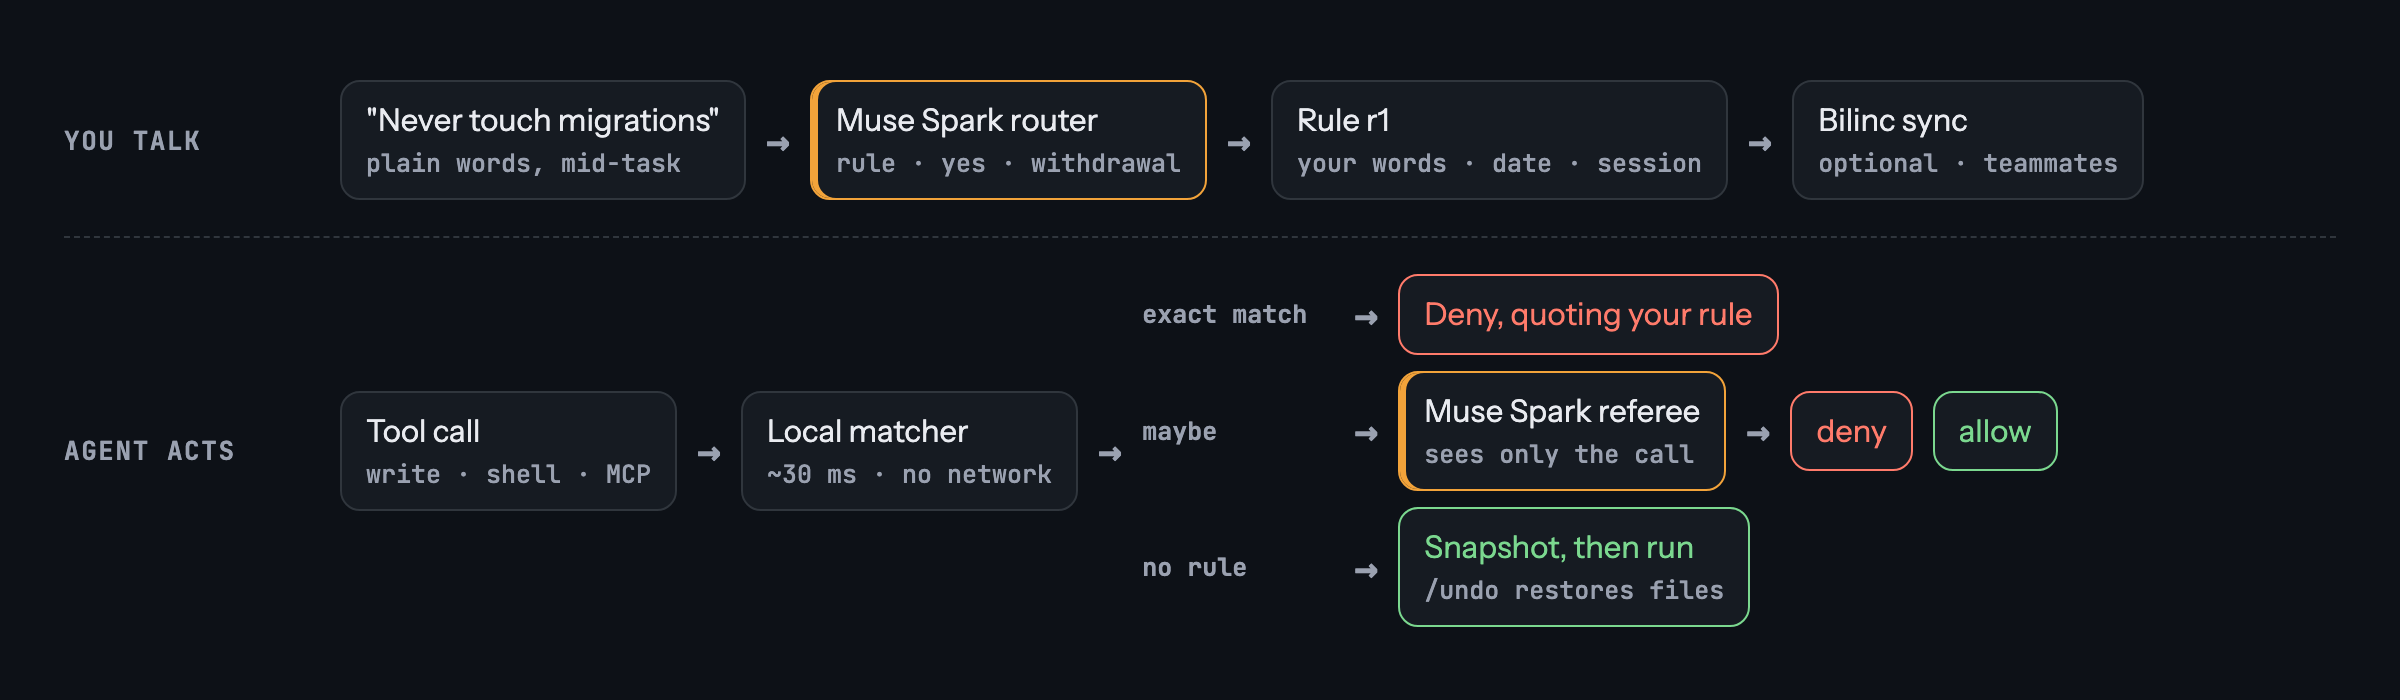
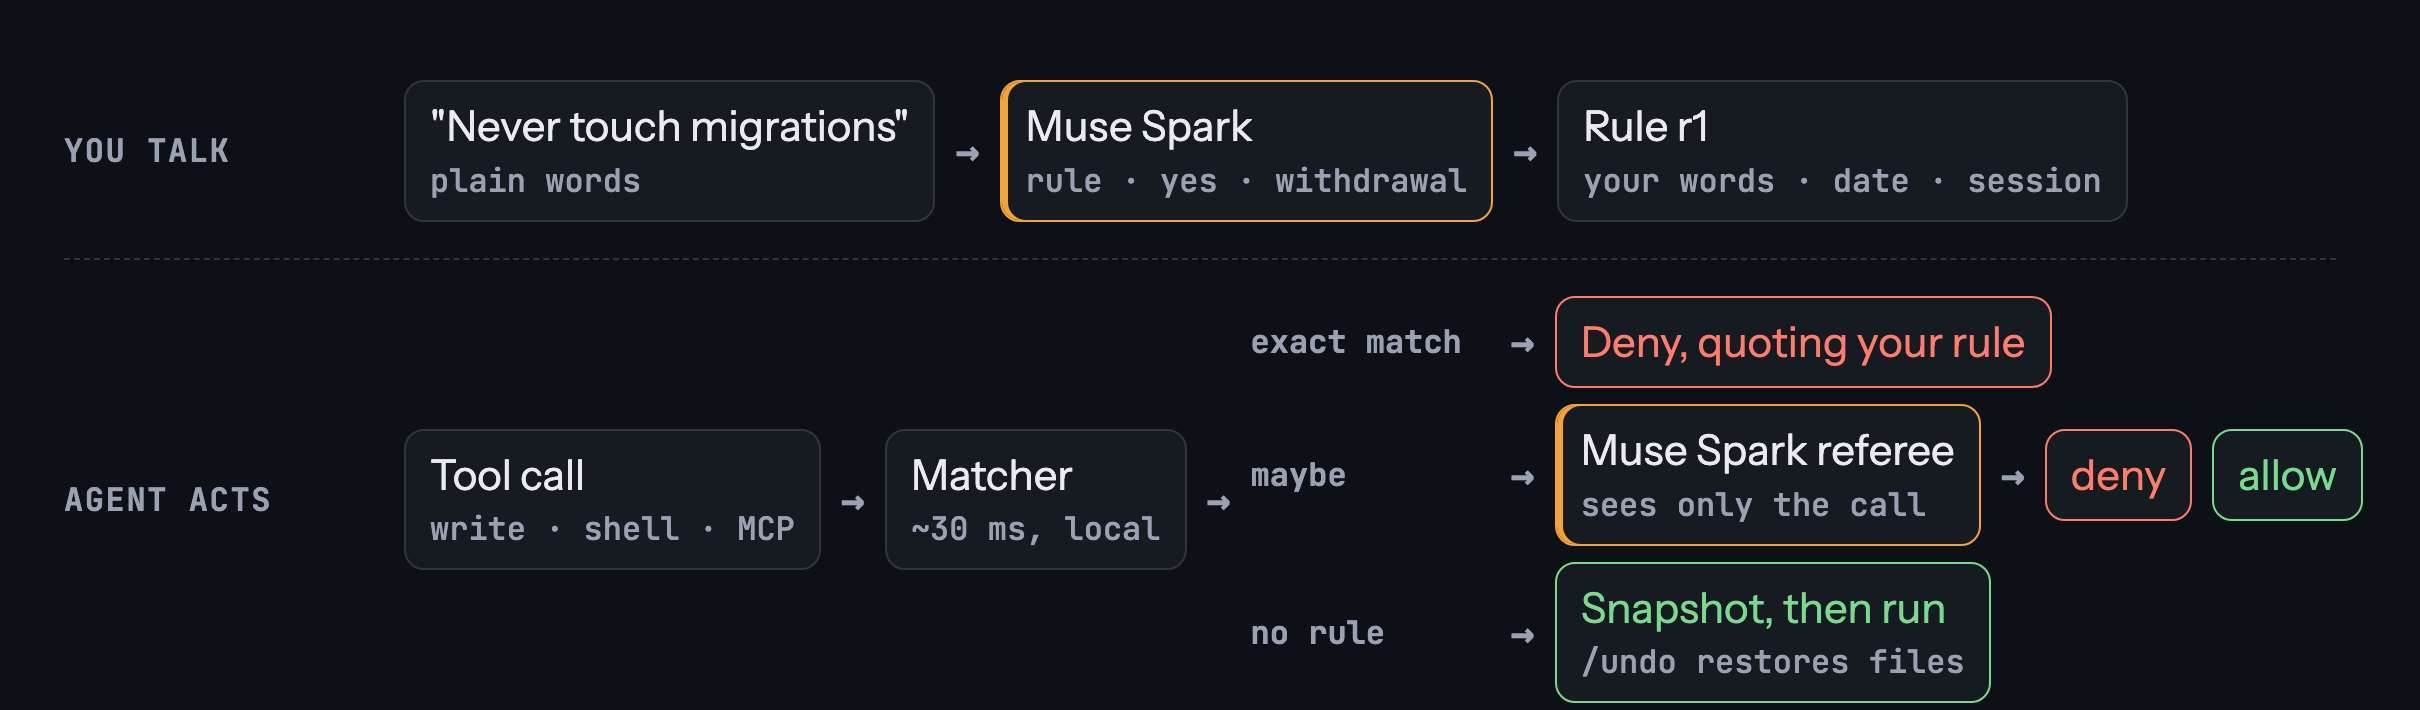
README: larger, simpler flow diagram

diff --git a/README.md b/README.md
@@ -46,7 +46,7 @@ This is a measured problem, not an anecdote. On file-deletion tasks, a casual re
 
 <picture>
   <source media="(prefers-color-scheme: dark)" srcset="assets/flow-dark.png">
-  <img src="assets/flow-light.png" alt="You talk: your plain-words rule goes to the Muse Spark router and is stored as rule r1 with your words, the date and the session, optionally synced through Bilinc. Agent acts: each tool call goes to the local matcher (about 30 ms, no network); an exact match is denied with your rule quoted, a possible match goes to the Muse Spark referee, which denies or allows, and a call with no rule involved is snapshotted and run, so /undo can restore files." width="100%">
+  <img src="assets/flow-light.png" alt="You talk: your plain-words rule goes to the Muse Spark router and is stored as rule r1 with your words, the date and the session. Agent acts: each tool call goes to the local matcher (about 30 ms, no network); an exact match is denied with your rule quoted, a possible match goes to the Muse Spark referee, which denies or allows, and a call with no rule involved is snapshotted and run, so /undo can restore files." width="100%">
 </picture>
 
 | Moment | What Sparkguard does | Meta model |
